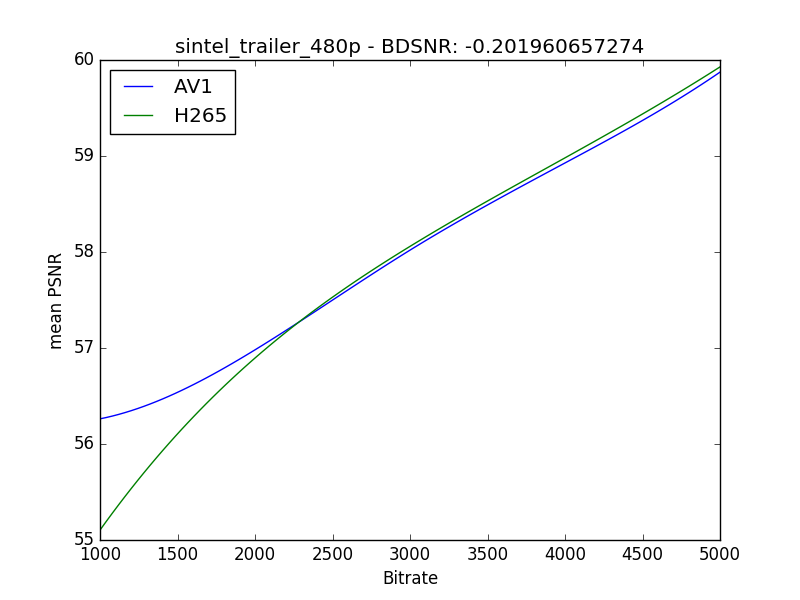
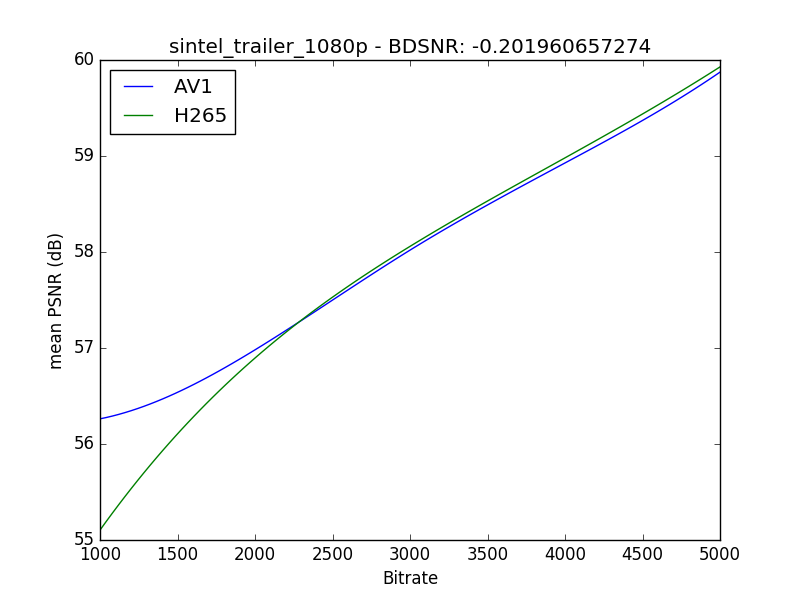
--ammend

Changed region(s): [[0.2188, 0.06, 0.8125, 0.09], [0.0625, 0.39, 0.0938, 0.63]]

diff --git a/src/computemetrics.py b/src/computemetrics.py
@@ -143,49 +143,56 @@ for videoFolder in videoFolders:
             print("H265 mean psnr: " + str(meanpsnr) + " - Bitrate: " + str(bitrate) + " - Folder" + h265Path)
             shutil.rmtree(os.path.join(h265Path, "tmp"))
 
-    for output_video_path in listdir_nohidden(outputPath):
-        av1_result_path = os.path.join(outputPath, output_video_path, "av1_psnr.pickle")
-        h265_result_path = os.path.join(outputPath, output_video_path, "h265_psnr.pickle")
+for output_video_path in listdir_nohidden(outputPath):
+    av1_result_path = os.path.join(outputPath, output_video_path, "av1_psnr.pickle")
+    h265_result_path = os.path.join(outputPath, output_video_path, "h265_psnr.pickle")
 
-        metric_set_1 = []
-        metric_set_2 = []
+    metric_set_1 = []
+    metric_set_2 = []
+    av1_psnr_results = []
+    h265_psnr_results = []
 
-        with open(av1_result_path, 'rb') as f:
-            av1_psnr_results = pickle.load(f)
+    with open(av1_result_path, 'rb') as f:
+        av1_psnr_results = pickle.load(f)
 
-            for result in av1_psnr_results:
-                metric_set_1.append([result['bitrate'], result['meanpsnr']])
+        for result in av1_psnr_results:
+            metric_set_1.append([result['bitrate'], result['meanpsnr']])
 
-        with open(h265_result_path, 'rb') as f:
-            h265_psnr_results = pickle.load(f)
+    with open(h265_result_path, 'rb') as f:
+        h265_psnr_results = pickle.load(f)
 
-            for result in h265_psnr_results:
-                metric_set_2.append([result['bitrate'], result['meanpsnr']])
+        for result in h265_psnr_results:
+            metric_set_2.append([result['bitrate'], result['meanpsnr']])
 
-        bdsnr = BDMetric.bdsnr(metric_set_1, metric_set_2)
+    bdsnr = BDMetric.bdsnr(metric_set_1, metric_set_2)
 
-        rate1 = [x[0] for x in metric_set_1]
-        psnr1 = [x[1] for x in metric_set_1]
-        rate2 = [x[0] for x in metric_set_2]
-        psnr2 = [x[1] for x in metric_set_2]
+    # rate1 = [x[0] for x in metric_set_1]
+    # psnr1 = [x[1] for x in metric_set_1]
+    # rate2 = [x[0] for x in metric_set_2]
+    # psnr2 = [x[1] for x in metric_set_2]
 
-        fig, ax = pl.subplots()
+    psnr1 = [x[0] for x in metric_set_1]
+    rate1 = [x[1] for x in metric_set_1]
+    psnr2 = [x[0] for x in metric_set_2]
+    rate2 = [x[1] for x in metric_set_2]
 
-        newPsnr1 = numpy.linspace(min(psnr1), max(psnr1), 100)
-        ax.plot(newPsnr1, spline(psnr1, rate1, newPsnr1), label="AV1")
+    fig, ax = pl.subplots()
 
-        newPsnr2 = numpy.linspace(min(psnr2), max(psnr2), 100)
-        ax.plot(newPsnr2, spline(psnr2, rate2, newPsnr2), label="H265")
+    newPsnr1 = numpy.linspace(min(psnr1), max(psnr1), 100)
+    ax.plot(newPsnr1, spline(psnr1, rate1, newPsnr1), label="AV1")
 
-        legend = ax.legend(loc='upper left', shadow=False)
+    newPsnr2 = numpy.linspace(min(psnr2), max(psnr2), 100)
+    ax.plot(newPsnr2, spline(psnr2, rate2, newPsnr2), label="H265")
 
-        pl.ylim(ymin=1000, ymax=5000)
-        pl.xlabel("mean PSNR")
-        pl.ylabel("Bitrate")
-        pl.title(videoFolder)
-        pl.draw();
-        pl.savefig(videoOutputPath+"/mean_psnr.png");
+    legend = ax.legend(loc='upper left', shadow=False)
 
-        print("asd")
+    # pl.xlim(ymin=1000, ymax=5000)
+    pl.ylabel("mean PSNR (dB)")
+    pl.xlabel("Bitrate")
+    pl.title(videoFolder + " - BDSNR: " + str(bdsnr))
+    pl.draw();
+    pl.savefig(os.path.join(working_directory,output_folder,output_video_path, "mean_psnr.png"));
+
+    print(output_video_path + " - " + str(bdsnr))
 
 
